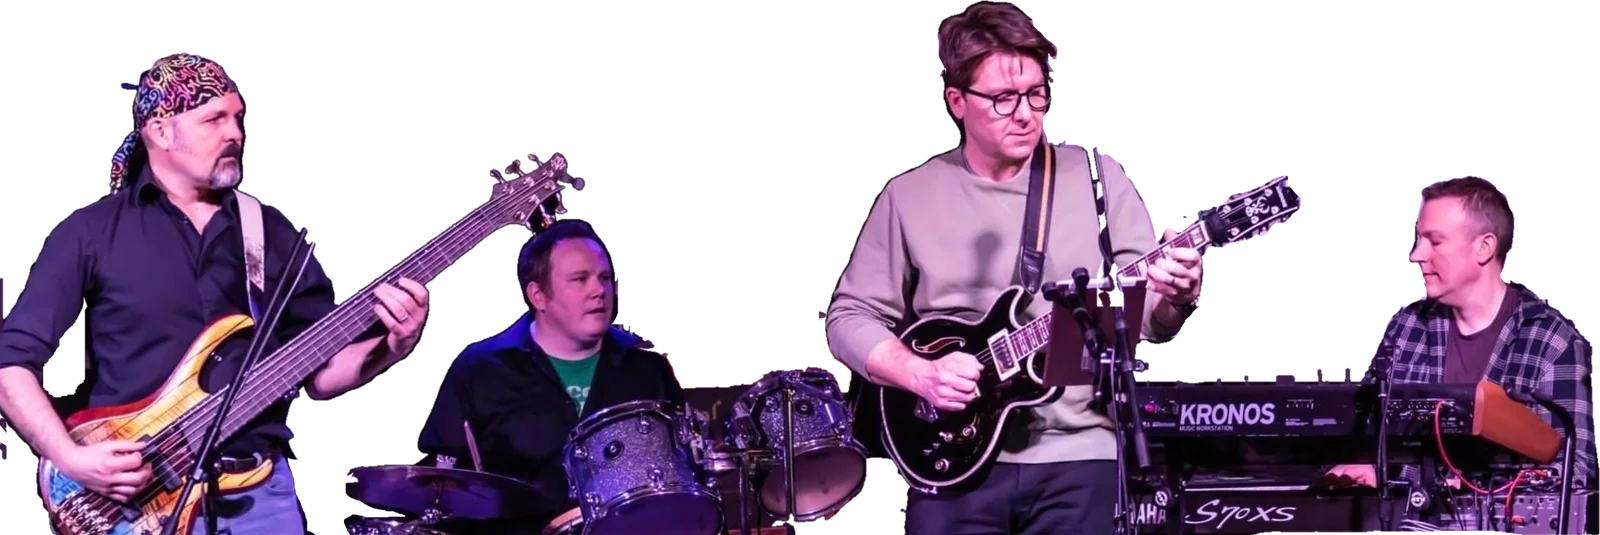
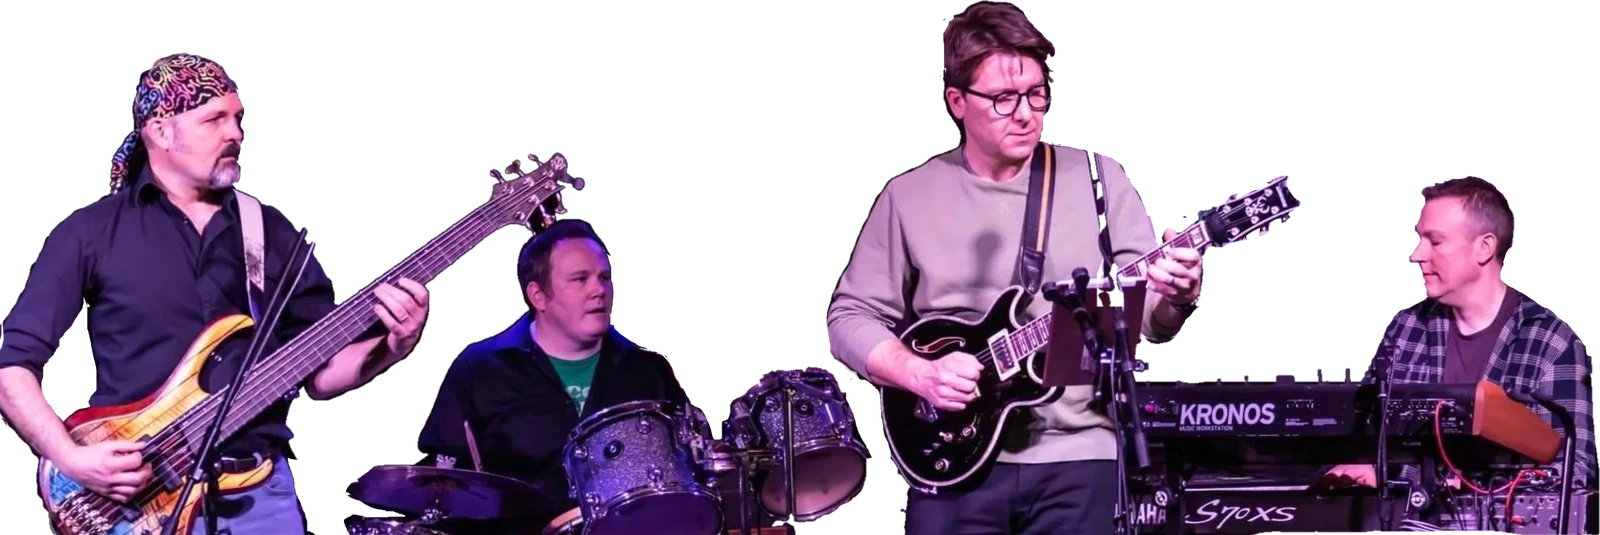
Add files via upload

diff --git a/index.html b/index.html
@@ -34,7 +34,7 @@
 <header class="site-head" id="head">
   <div class="head-bar">
     <a class="brand" href="#top" aria-label="Moving Mountains — home">
-      <svg width="52" height="36" viewBox="0 0 52 36" aria-hidden="true"><circle cx="26" cy="14" r="10" fill="#F0D2A8" stroke="#FFFFFF" stroke-width="2"/><circle cx="23" cy="11" r="3" fill="#B98F68"/><circle cx="30" cy="16" r="2" fill="#B98F68"/><circle cx="24" cy="19" r="1.5" fill="#B98F68"/><path d="M1 34 C 6 26, 10 18, 15 17 C 19 16, 21 22, 24 18 C 27 13, 29 8, 32 9 C 36 10, 40 20, 44 22 C 47 24, 49 30, 51 34 Z" fill="#6447B0" stroke="#FFFFFF" stroke-width="2" stroke-linejoin="round"/><path d="M1 34 C 10 29, 20 31, 28 28 C 36 25, 44 30, 51 34 Z" fill="#4FA854" stroke="#FFFFFF" stroke-width="1.8" stroke-linejoin="round"/></svg>
+      <svg width="56" height="36" viewBox="0 0 56 36" aria-hidden="true"><defs><filter id="paper0" x="0" y="0" width="100%" height="100%"><feTurbulence type="fractalNoise" baseFrequency="1.1" numOctaves="2" seed="3" result="n"/><feColorMatrix in="n" type="matrix" values="0 0 0 0 1  0 0 0 0 1  0 0 0 0 1  0 0 0 .09 0" result="g"/><feComposite in="g" in2="SourceGraphic" operator="in" result="t"/><feMerge><feMergeNode in="SourceGraphic"/><feMergeNode in="t"/></feMerge></filter></defs><g filter="url(#paper0)"><polygon points="0,36 13,9 26,36" fill="#963432" fill-opacity=".88"/><polygon points="9,36 20,17 31,36" fill="#784068" fill-opacity=".85"/><polygon points="15,36 28,2 41,36" fill="#2C6E86" fill-opacity=".85"/><polygon points="23,36 34,14 45,36" fill="#BE7C34" fill-opacity=".82"/><polygon points="32,36 43,10 54,36" fill="#54609A" fill-opacity=".85"/><polygon points="38,36 47,19 56,36" fill="#34704C" fill-opacity=".85"/></g></svg>
       <span>Moving Mountains</span>
     </a>
     <a class="menu-btn" href="#menu" aria-label="Open menu" aria-controls="menu" aria-expanded="false"><span></span><span></span><span></span></a>
@@ -384,7 +384,7 @@
 <footer class="site-foot">
   <div class="wrap foot-grid">
     <a class="brand" href="#top">
-      <svg width="52" height="36" viewBox="0 0 52 36" aria-hidden="true"><circle cx="26" cy="14" r="10" fill="#F0D2A8" stroke="#FFFFFF" stroke-width="2"/><circle cx="23" cy="11" r="3" fill="#B98F68"/><circle cx="30" cy="16" r="2" fill="#B98F68"/><circle cx="24" cy="19" r="1.5" fill="#B98F68"/><path d="M1 34 C 6 26, 10 18, 15 17 C 19 16, 21 22, 24 18 C 27 13, 29 8, 32 9 C 36 10, 40 20, 44 22 C 47 24, 49 30, 51 34 Z" fill="#6447B0" stroke="#FFFFFF" stroke-width="2" stroke-linejoin="round"/><path d="M1 34 C 10 29, 20 31, 28 28 C 36 25, 44 30, 51 34 Z" fill="#4FA854" stroke="#FFFFFF" stroke-width="1.8" stroke-linejoin="round"/></svg>
+      <svg width="56" height="36" viewBox="0 0 56 36" aria-hidden="true"><defs><filter id="paper1" x="0" y="0" width="100%" height="100%"><feTurbulence type="fractalNoise" baseFrequency="1.1" numOctaves="2" seed="3" result="n"/><feColorMatrix in="n" type="matrix" values="0 0 0 0 1  0 0 0 0 1  0 0 0 0 1  0 0 0 .09 0" result="g"/><feComposite in="g" in2="SourceGraphic" operator="in" result="t"/><feMerge><feMergeNode in="SourceGraphic"/><feMergeNode in="t"/></feMerge></filter></defs><g filter="url(#paper1)"><polygon points="0,36 13,9 26,36" fill="#963432" fill-opacity=".88"/><polygon points="9,36 20,17 31,36" fill="#784068" fill-opacity=".85"/><polygon points="15,36 28,2 41,36" fill="#2C6E86" fill-opacity=".85"/><polygon points="23,36 34,14 45,36" fill="#BE7C34" fill-opacity=".82"/><polygon points="32,36 43,10 54,36" fill="#54609A" fill-opacity=".85"/><polygon points="38,36 47,19 56,36" fill="#34704C" fill-opacity=".85"/></g></svg>
       <span>Moving Mountains</span>
     </a>
     <nav class="foot-nav" aria-label="Footer">

diff --git a/css/style.css b/css/style.css
@@ -416,3 +416,8 @@ em{font-style:italic}
 /* thin accent line under each section's lead-in on dark sections */
 .sec .bar{width:96px}
 .sec .h2+.sub::after{content:"";display:block;width:24px;height:1px;margin-top:0;background:transparent}
+
+
+/* phone fixes */
+@media (max-width:1220px){.main-nav .menu-close{position:absolute;top:14px;right:18px}}
+@media (max-width:640px){.g-item.tall{grid-row:span 1}}
